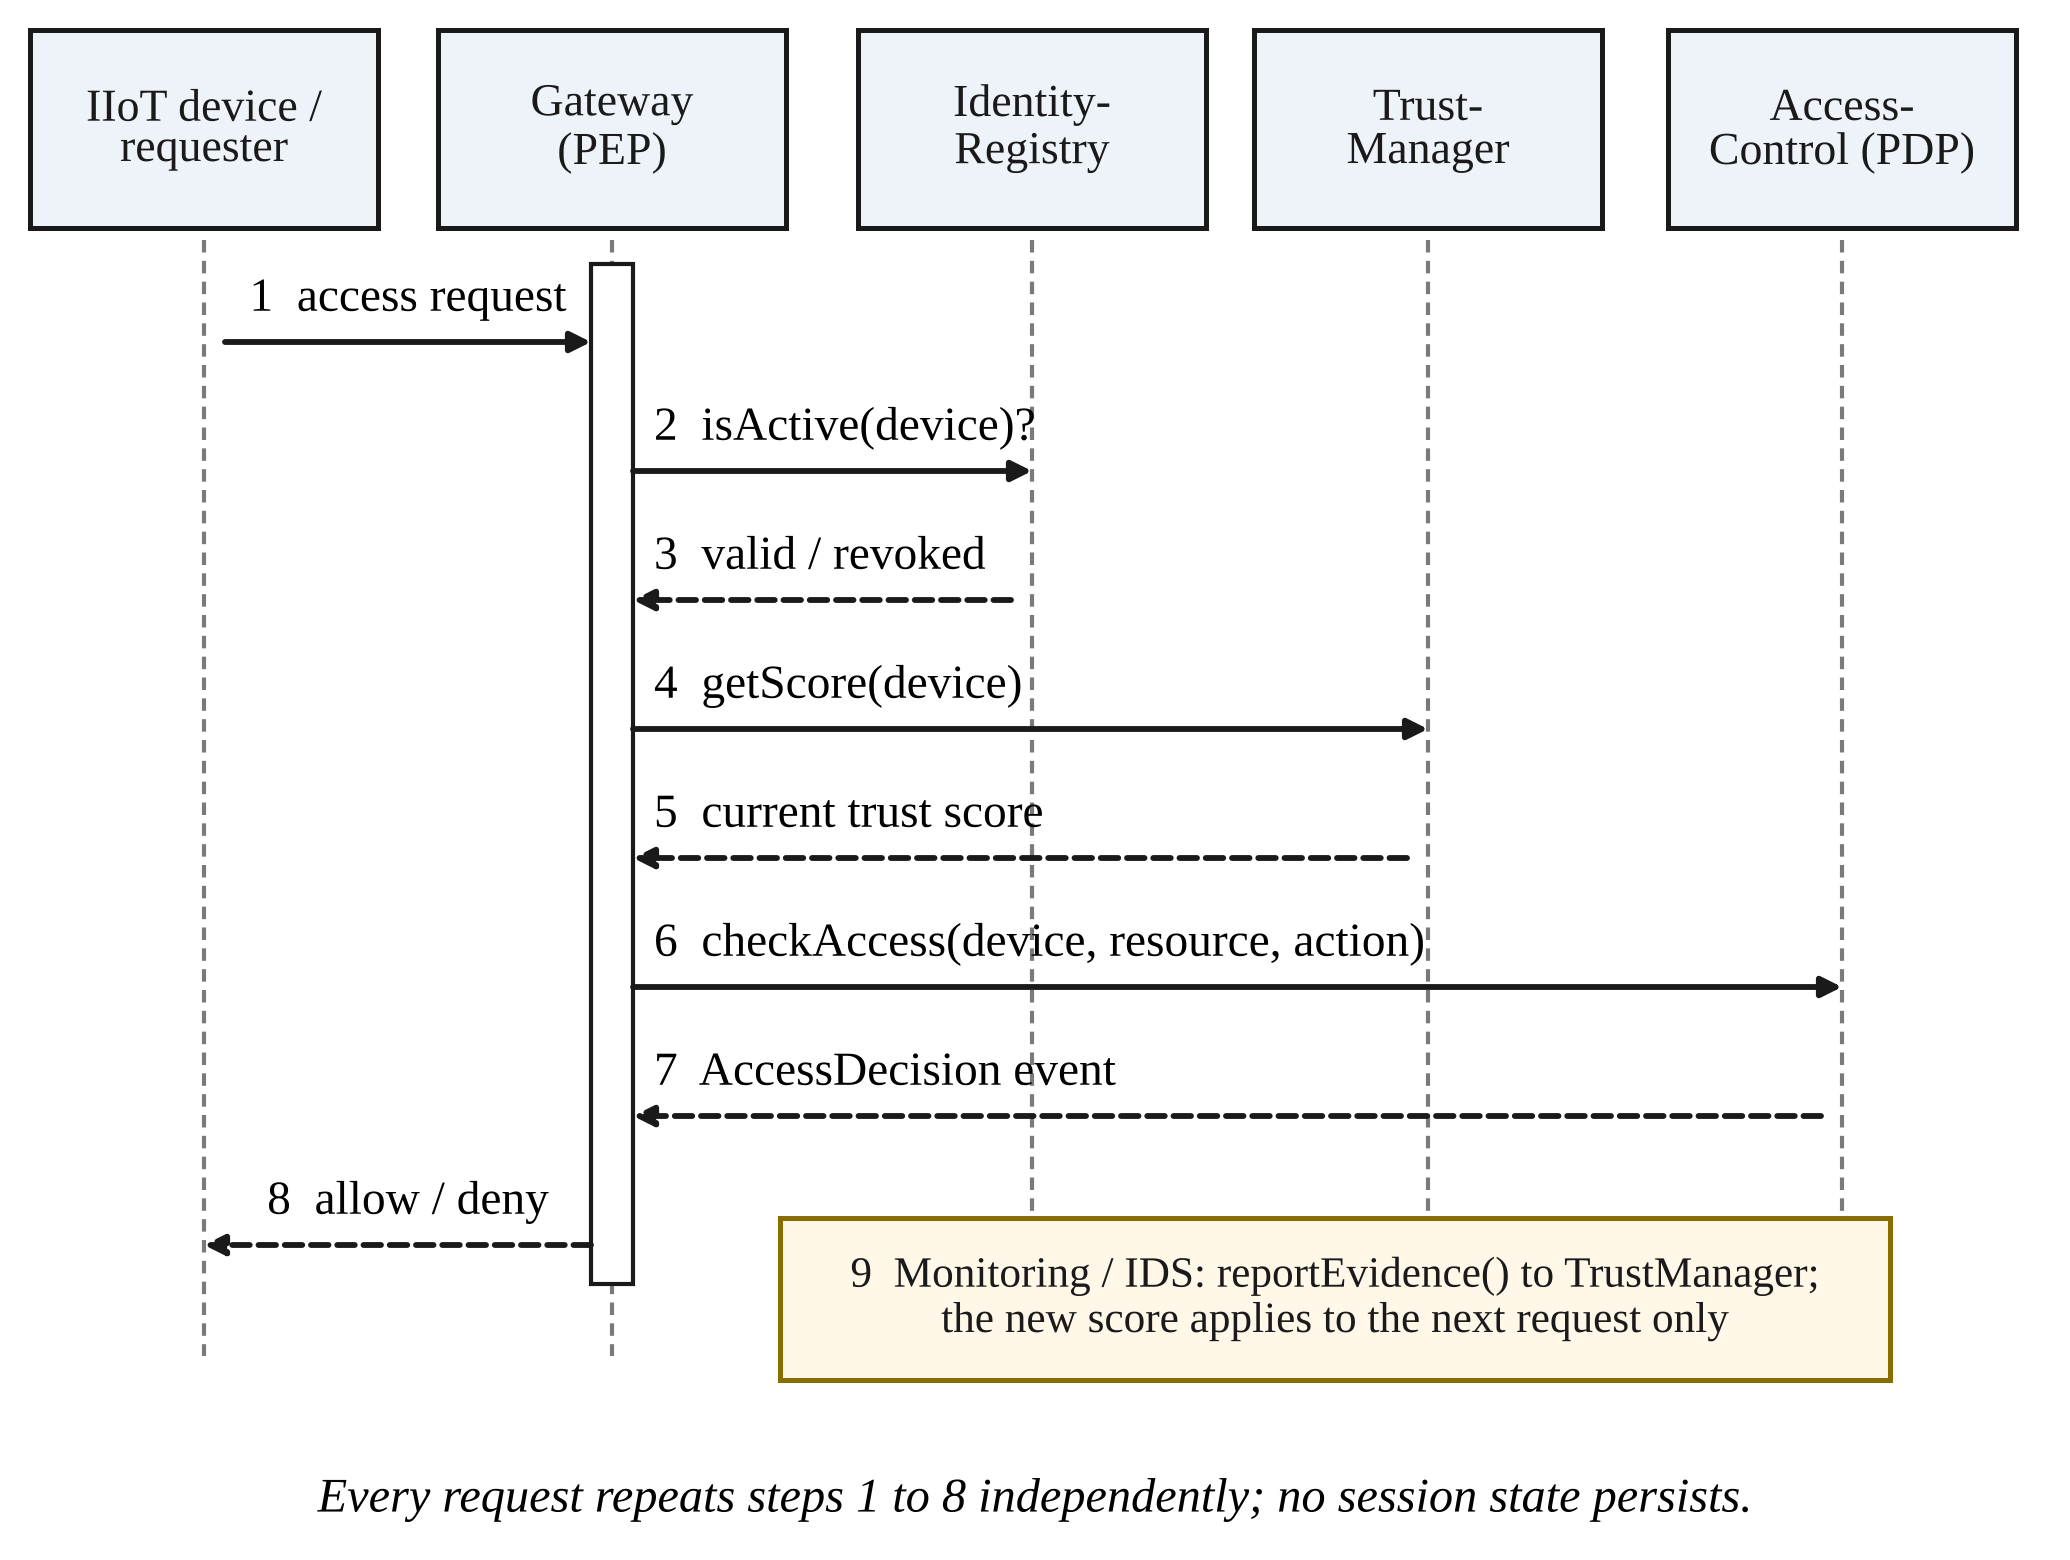
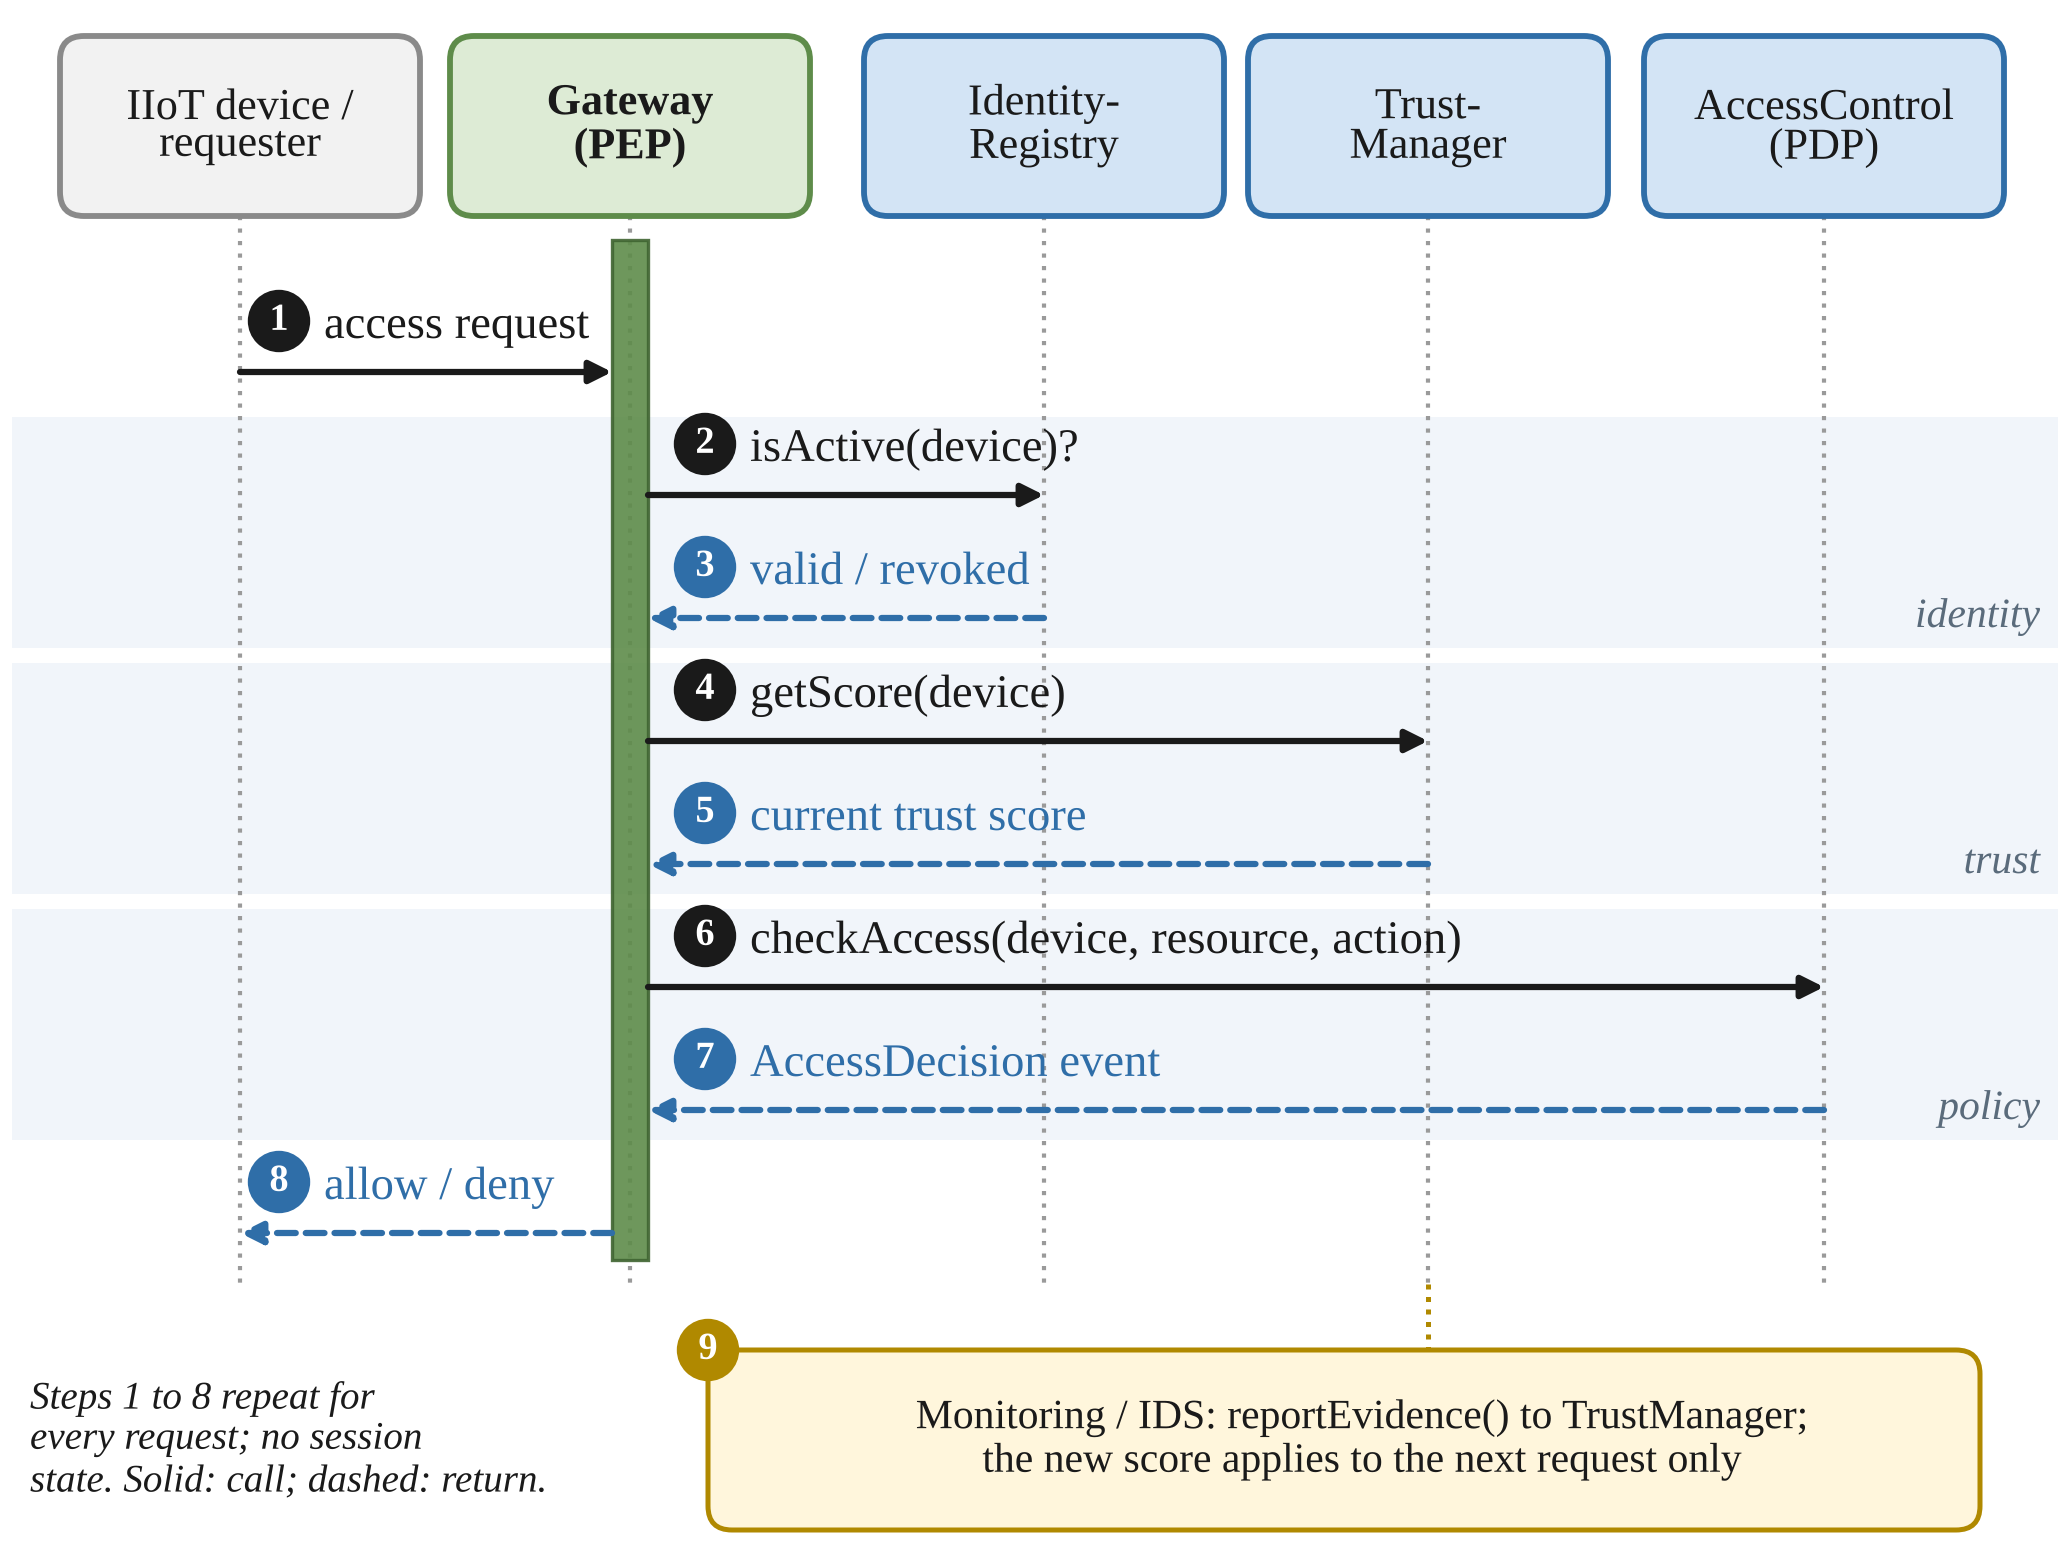
Redesign Fig. 2 (layer-coloured sequence diagram with step badges and phase bands)
Claude-Session: https://claude.ai/code/session_01EZJYiGM2EAjHMv1LPvqBJQ

diff --git a/evaluation/gen_paper_figures_diagrams.py b/evaluation/gen_paper_figures_diagrams.py
@@ -53,27 +53,43 @@ def fig1():
 
 # ------------------------------------------------------------------------------------------------
 def fig2():
-    fig = plt.figure(figsize=(W1, 2.6)); ax = fig.add_axes([0, 0, 1, 1]); ax.set_xlim(0, W1); ax.set_ylim(0, 2.6); ax.axis("off")
-    X = [0.34, 1.02, 1.72, 2.38, 3.07]; names = ["IIoT device /\nrequester", "Gateway\n(PEP)", "Identity-\nRegistry", "Trust-\nManager", "Access-\nControl (PDP)"]
-    top, bot = 2.20, 0.34
-    for x, n in zip(X, names):
-        box(ax, x - 0.29, 2.22, 0.58, 0.33, n, fc="#EEF3F9", fs=5.5, style="square,pad=0")
-        ax.plot([x, x], [top, bot], color="#7A7A7A", lw=0.5, ls=(0, (3, 2)), zorder=2)
-    ax.add_patch(Rectangle((X[1] - 0.035, 0.46), 0.07, 1.70, fc="white", ec=INK, lw=0.5, zorder=3))  # activation of the PEP
-    steps = [  # (from, to, label, dashed)
-        (0, 1, "1  access request", False), (1, 2, "2  isActive(device)?", False), (2, 1, "3  valid / revoked", True),
-        (1, 3, "4  getScore(device)", False), (3, 1, "5  current trust score", True),
-        (1, 4, "6  checkAccess(device, resource, action)", False), (4, 1, "7  AccessDecision event", True), (1, 0, "8  allow / deny", True)]
-    y = 2.03
-    for s, t, lab, dashed in steps:
-        xs, xt = X[s], X[t]; d = 1 if t > s else -1
-        arrow(ax, (xs + 0.035 * d, y), (xt - 0.035 * d if t == 1 else xt, y), None, ls=(0, (3, 1.5)) if dashed else "-", lw=0.7)
-        g = (s == 1 or t == 1) and max(s, t) > 1
-        ax.text(X[1] + 0.07 if g else (xs + xt) / 2, y + 0.035, lab, ha="left" if g else "center", va="bottom", fontsize=5.7, zorder=6)
-        y -= 0.215
-    # monitoring note
-    box(ax, 1.30, 0.30, 1.85, 0.27, "9  Monitoring / IDS: reportEvidence() to TrustManager;\nthe new score applies to the next request only", fc="#FFF8E8", ec="#8A6D00", fs=5.2, style="square,pad=0")
-    ax.text(W1 / 2, 0.10, "Every request repeats steps 1 to 8 independently; no session state persists.", ha="center", va="center", fontsize=5.8, style="italic")
+    from matplotlib.patches import Circle
+    H = 2.6
+    fig = plt.figure(figsize=(W1, H)); ax = fig.add_axes([0, 0, 1, 1]); ax.set_xlim(0, W1); ax.set_ylim(0, H); ax.axis("off")
+    X = [0.40, 1.05, 1.74, 2.38, 3.04]
+    heads = [("IIoT device /", "requester", "#F2F2F2", "#8A8A8A"), ("Gateway", "(PEP)", "#DDEBD5", "#5E8C4A"),
+             ("Identity-", "Registry", "#D3E4F5", "#2F6EA8"), ("Trust-", "Manager", "#D3E4F5", "#2F6EA8"), ("AccessControl", "(PDP)", "#D3E4F5", "#2F6EA8")]
+    bot = 0.46
+    ys = [1.98 - 0.205 * i for i in range(8)]
+    for i0, lab in [(1, "identity"), (3, "trust"), (5, "policy")]:
+        yb = ys[i0 + 1] - 0.05; yt = ys[i0] + 0.13
+        ax.add_patch(Rectangle((0.02, yb), W1 - 0.04, yt - yb, fc="#F1F5FA", ec="none", zorder=0))
+        ax.text(W1 - 0.05, yb + 0.02, lab, ha="right", va="bottom", fontsize=5.0, color="#5A6B7B", style="italic", zorder=1)
+    for x, (l1, l2, fc, ec) in zip(X, heads):
+        ax.add_patch(FancyBboxPatch((x - 0.30, 2.24), 0.60, 0.30, boxstyle="round,pad=0,rounding_size=0.04", fc=fc, ec=ec, lw=0.7, zorder=3))
+        ax.text(x, 2.39, l1 + "\n" + l2, ha="center", va="center", fontsize=5.3, color=INK, zorder=4, linespacing=1.1, fontweight="bold" if x == X[1] else "normal")
+        ax.plot([x, x], [2.24, bot], color="#9A9A9A", lw=0.5, ls=(0, (1, 2)), zorder=1)
+    ax.add_patch(Rectangle((X[1] - 0.03, bot + 0.04), 0.06, 2.24 - bot - 0.08, fc="#5E8C4A", ec="#3F6431", lw=0.4, zorder=3, alpha=0.9))
+    steps = [(0, 1, "access request", False), (1, 2, "isActive(device)?", False), (2, 1, "valid / revoked", True),
+             (1, 3, "getScore(device)", False), (3, 1, "current trust score", True),
+             (1, 4, "checkAccess(device, resource, action)", False), (4, 1, "AccessDecision event", True), (1, 0, "allow / deny", True)]
+    def badge(x, y, n, col):
+        ax.add_patch(Circle((x, y), 0.052, fc=col, ec="none", zorder=7))
+        ax.text(x, y, str(n), ha="center", va="center", fontsize=4.6, color="white", fontweight="bold", zorder=8)
+    for n, ((s_, t_, lab, ret), y) in enumerate(zip(steps, ys), 1):
+        d = 1 if t_ > s_ else -1
+        xs = X[s_] + (0.03 * d if s_ == 1 else 0); xt = X[t_] - (0.03 * d if t_ == 1 else 0)
+        col = "#2F6EA8" if ret else INK
+        ax.add_patch(FancyArrowPatch((xs, y), (xt, y), arrowstyle="-|>", mutation_scale=5.5, lw=0.75, color=col,
+                                     ls=(0, (3, 1.6)) if ret else "-", zorder=5, shrinkA=0, shrinkB=0))
+        xl = X[0] + 0.14 if n in (1, 8) else X[1] + 0.20
+        badge(xl - 0.075, y + 0.085, n, col)
+        ax.text(xl, y + 0.04, lab, ha="left", va="bottom", fontsize=5.6, color=col, zorder=6)
+    ax.add_patch(FancyBboxPatch((1.18, 0.05), 2.12, 0.30, boxstyle="round,pad=0,rounding_size=0.04", fc="#FFF6DC", ec="#B08900", lw=0.6, zorder=4))
+    ax.text(2.27, 0.20, "Monitoring / IDS: reportEvidence() to TrustManager;\nthe new score applies to the next request only", ha="center", va="center", fontsize=5.0, color=INK, zorder=5, linespacing=1.15)
+    badge(1.18, 0.35, 9, "#B08900")
+    ax.plot([X[3], X[3]], [bot, 0.35], color="#B08900", lw=0.6, ls=(0, (1, 1.5)), zorder=2)
+    ax.text(0.05, 0.20, "Steps 1 to 8 repeat for\nevery request; no session\nstate. Solid: call; dashed: return.", ha="left", va="center", fontsize=4.7, color=INK, style="italic", linespacing=1.15)
     save(fig, "fig2_workflow")
 
 fig1(); fig2(); print("done")
